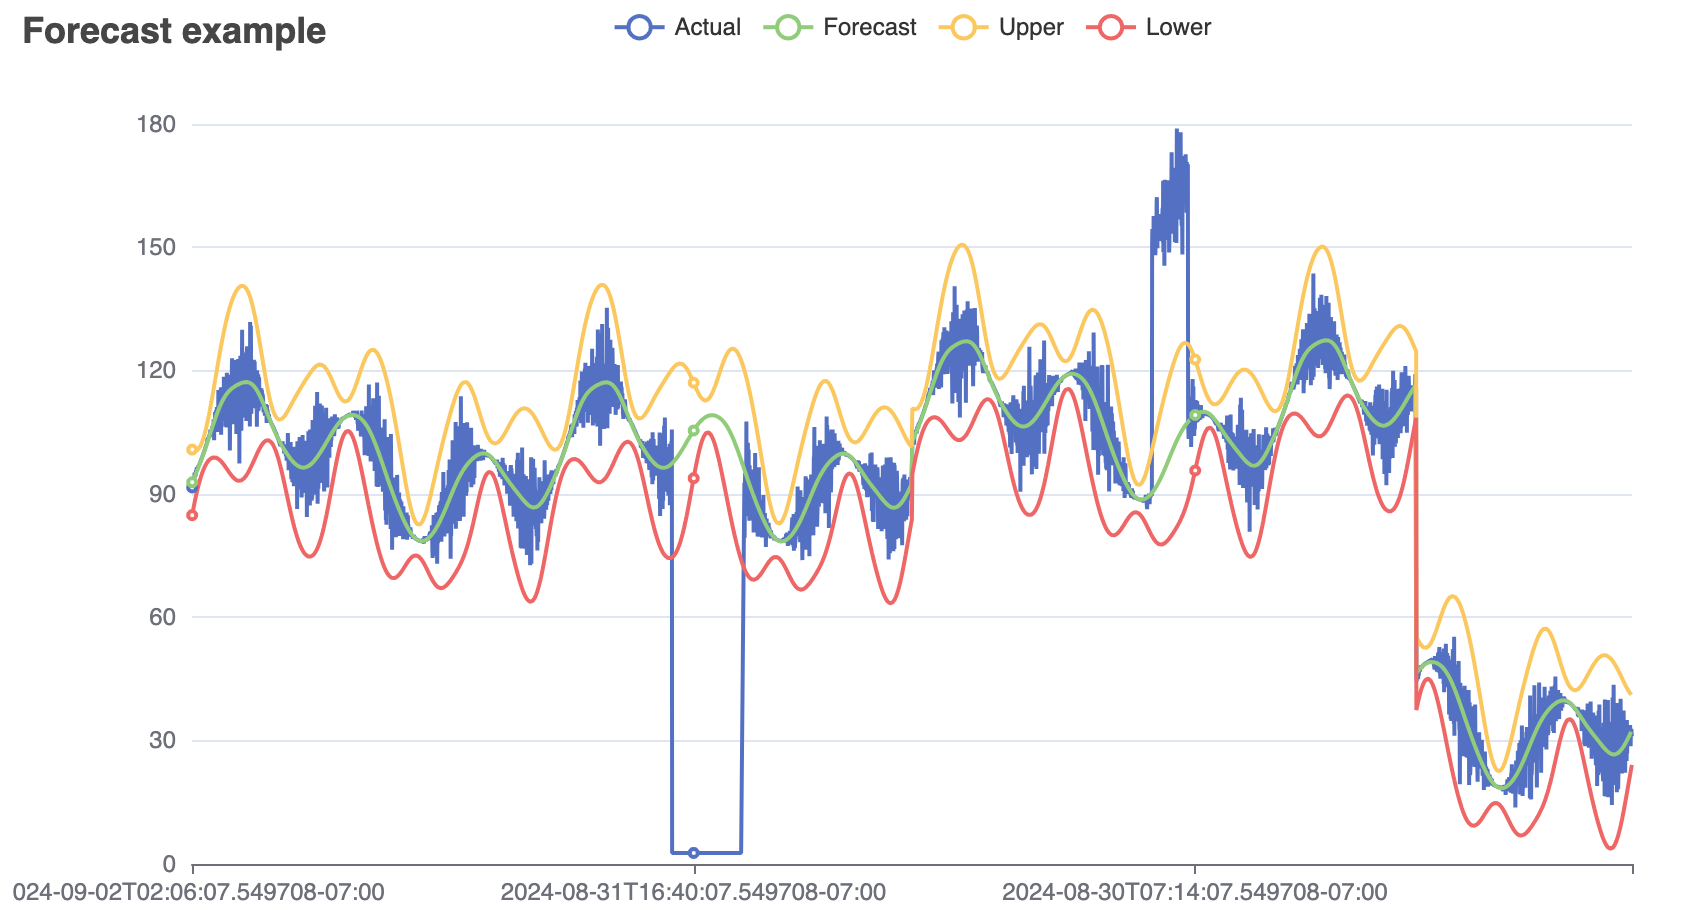
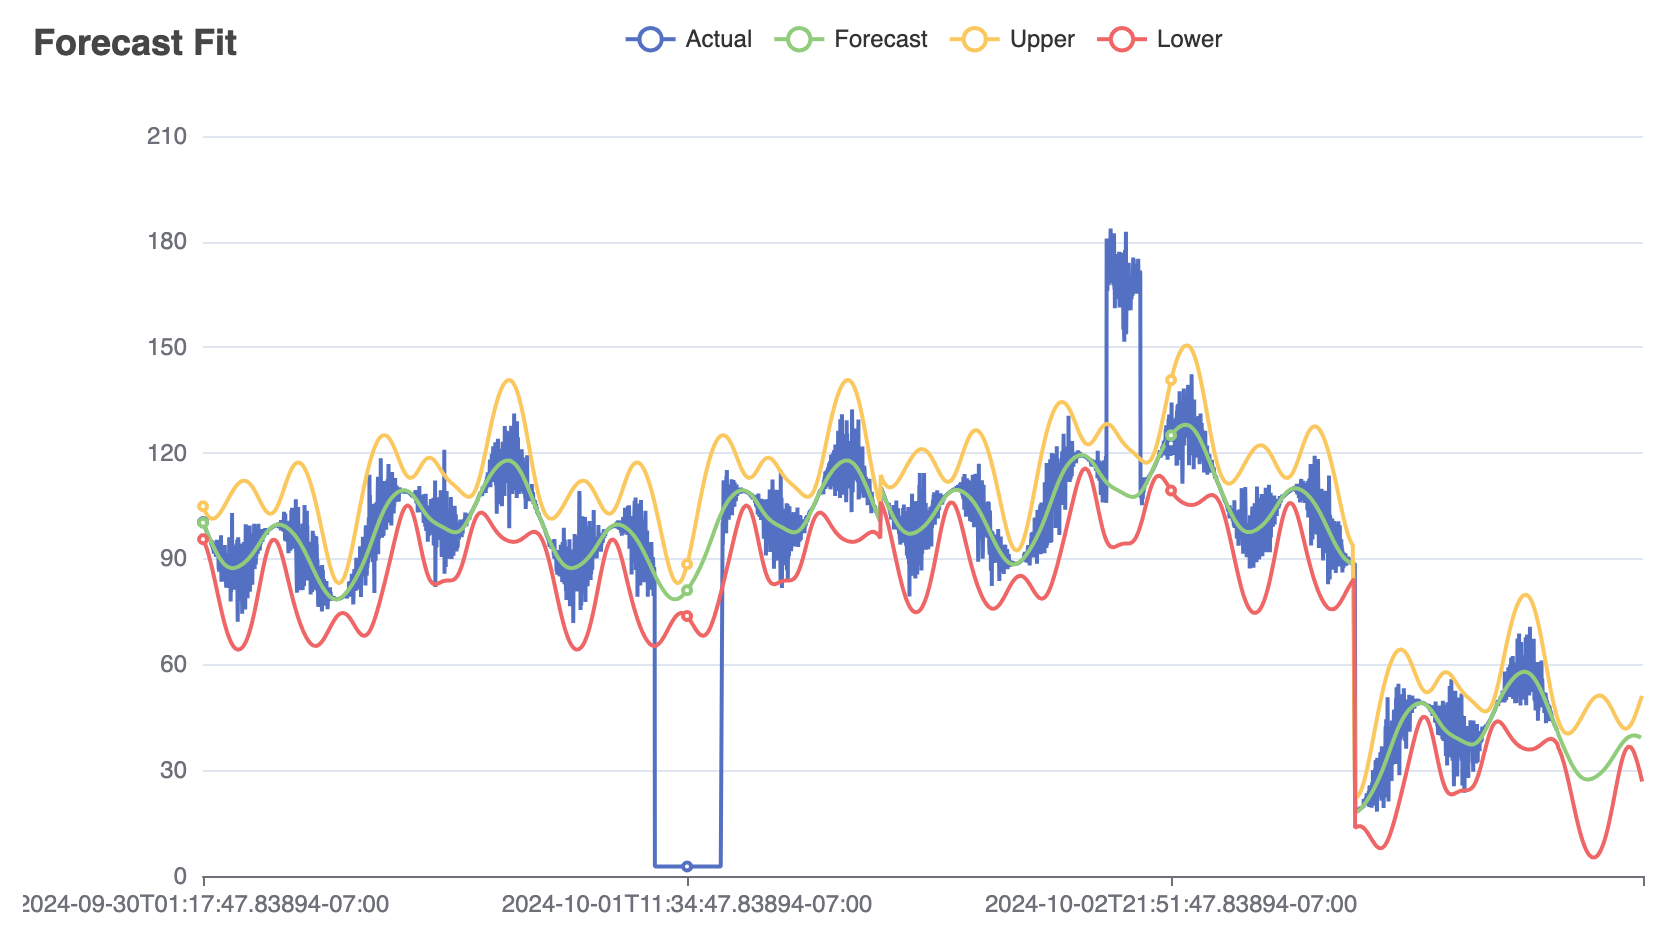
updated readme with examples and auto changepoint

Changed region(s): [[0.0, 0.1231, 1.0, 1.0], [0.3682, 0.0, 0.7365, 0.0615], [0.0, 0.0, 0.2148, 0.0615]]

diff --git a/README.md b/README.md
@@ -13,6 +13,11 @@ Contains a daily seasonal component with 2 anomalous behaviors along with 2 regi
 Contains a daily seasonal component with a trend change point which resets
 ![Forecast With Trend Example](https://github.com/aouyang1/go-forecast/blob/main/examples/forecast_with_trend_example.png)
 
+## Example 3
+Auto-changepoint detection and fit
+![Forecast With Auto-Changepoint Detection Example](https://github.com/aouyang1/go-forecast/blob/main/examples/forecast_with_autochangepoint_example.png)
+
+
 ## Example Use
 ```
 import (
